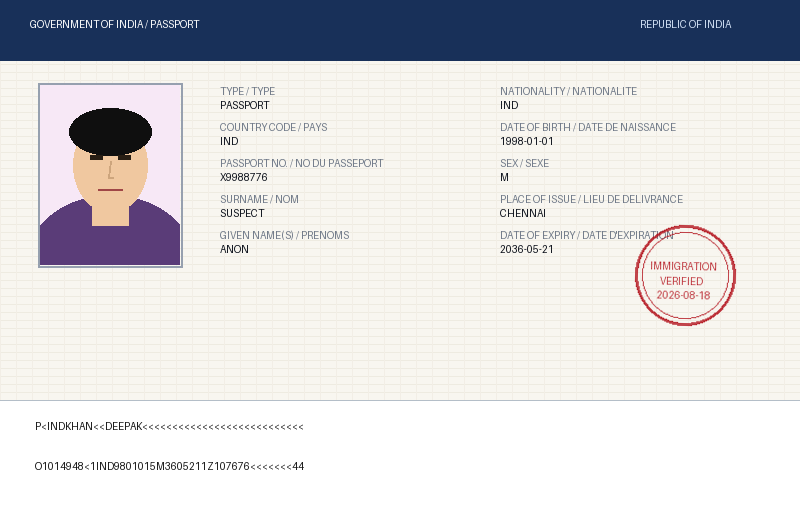
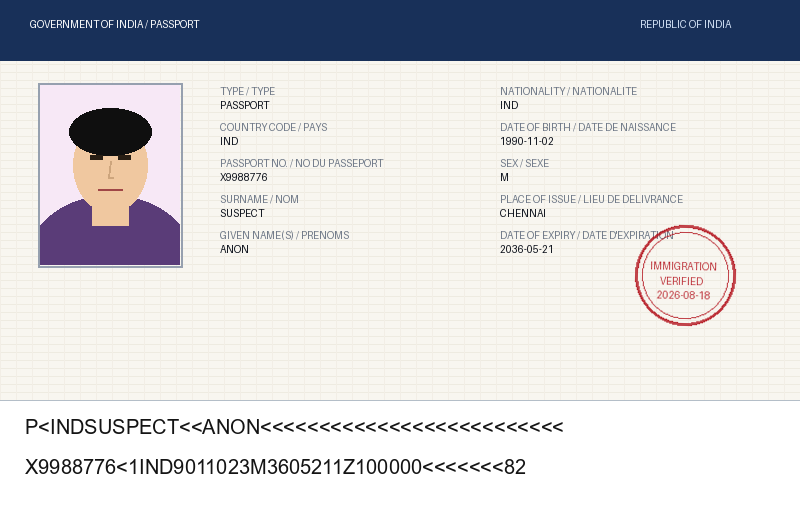
Fix watchlist hit sample MRZ rendering

Changed region(s): [[0.0312, 0.8615, 0.6562, 0.9231], [0.0312, 0.8, 0.7188, 0.8308]]

diff --git a/ml/scripts/generate_sample_inputs.py b/ml/scripts/generate_sample_inputs.py
@@ -13,7 +13,8 @@ from ml.scripts.dataset_generator import (
     generate_synthetic_passport_data,
     render_document_image,
     apply_tampering,
-    create_synthetic_portrait
+    create_synthetic_portrait,
+    compute_mrz_check_digit
 )
 
 def main():
@@ -58,6 +59,25 @@ def main():
     doc4["documentNumber"] = "X9988776"
     doc4["surname"] = "SUSPECT"
     doc4["givenName"] = "ANON"
+    doc4["dateOfBirth"] = "1990-11-02"
+
+    # Re-calculate MRZ with valid check digits for updated fields
+    doc_num_mrz = doc4["documentNumber"].ljust(9, '<')[:9]
+    doc_num_chk = compute_mrz_check_digit(doc_num_mrz)
+    dob_mrz = "901102"
+    dob_chk = compute_mrz_check_digit(dob_mrz)
+    exp_parts = doc4["expiryDate"].split("-")
+    exp_mrz = f"{exp_parts[0][-2:]}{exp_parts[1]}{exp_parts[2]}"
+    exp_chk = compute_mrz_check_digit(exp_mrz)
+    opt_field = "Z100000".ljust(14, '<')[:14]
+    opt_chk = compute_mrz_check_digit(opt_field)
+
+    line1 = f"P<{doc4['nationality']}{doc4['surname']}<<{doc4['givenName']}".ljust(44, '<')[:44]
+    comp_data = f"{doc_num_mrz}{doc_num_chk}{dob_mrz}{dob_chk}{exp_mrz}{exp_chk}{opt_field}{opt_chk}"
+    final_chk = compute_mrz_check_digit(comp_data)
+    line2 = f"{doc_num_mrz}{doc_num_chk}{doc4['nationality']}{dob_mrz}{dob_chk}{doc4['gender']}{exp_mrz}{exp_chk}{opt_field}{opt_chk}{final_chk}".ljust(44, '<')[:44]
+    doc4["mrz"] = f"{line1}\n{line2}"
+
     img4 = render_document_image(doc4, seed=404)
     path4 = output_dir / "04_watchlist_hit_passport.png"
     img4.save(path4)

diff --git a/ml/scripts/dataset_generator.py b/ml/scripts/dataset_generator.py
@@ -243,9 +243,19 @@ def render_document_image(doc_data: dict, seed: int) -> Image.Image:
     draw.rectangle([0, height - 120, width, height], fill=(255, 255, 255))
     draw.line([(0, height - 120), (width, height - 120)], fill=(180, 190, 200), width=1)
     
+    mrz_font = None
+    for font_name in ("arial.ttf", "cour.ttf", "consola.ttf", "DejaVuSansMono.ttf"):
+        try:
+            mrz_font = ImageFont.truetype(font_name, 20)
+            break
+        except Exception:
+            pass
+    if mrz_font is None:
+        mrz_font = ImageFont.load_default()
+
     mrz_lines = doc_data["mrz"].split("\n")
-    draw.text((35, height - 100), mrz_lines[0], fill=(20, 20, 20))
-    draw.text((35, height - 60), mrz_lines[1], fill=(20, 20, 20))
+    draw.text((25, height - 105), mrz_lines[0], fill=(20, 20, 20), font=mrz_font)
+    draw.text((25, height - 65), mrz_lines[1], fill=(20, 20, 20), font=mrz_font)
     
     return bg
 
